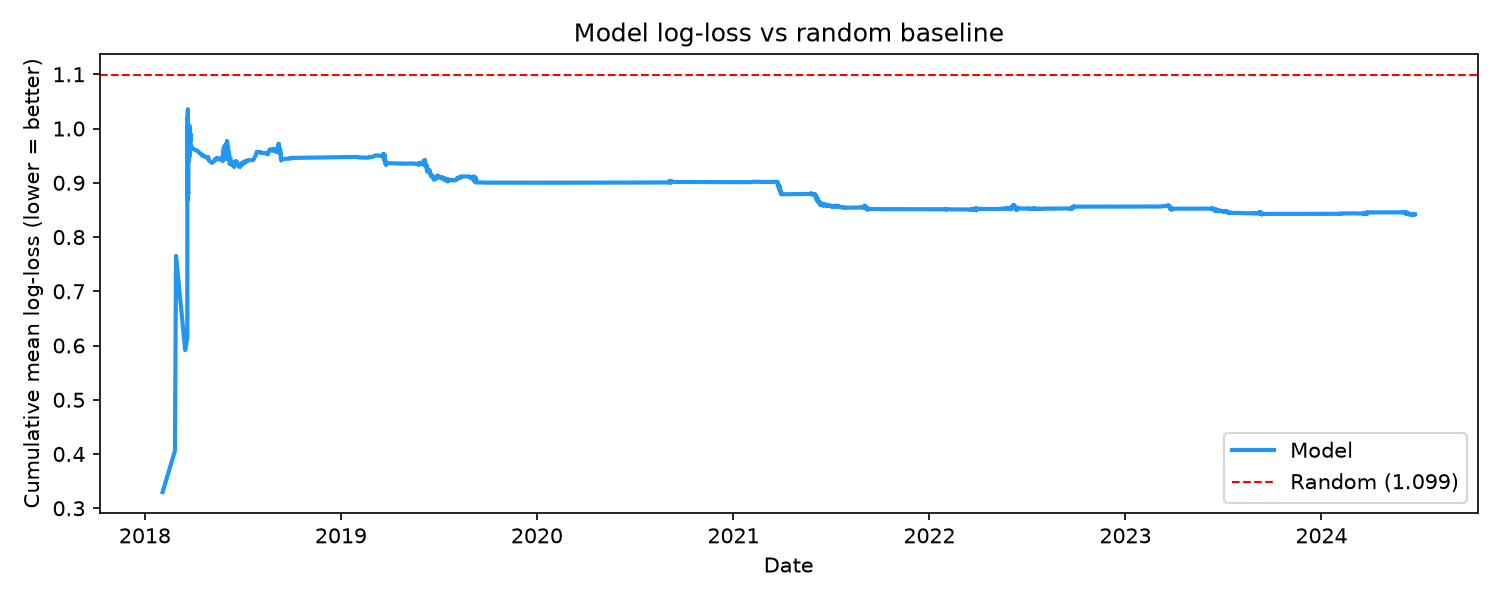
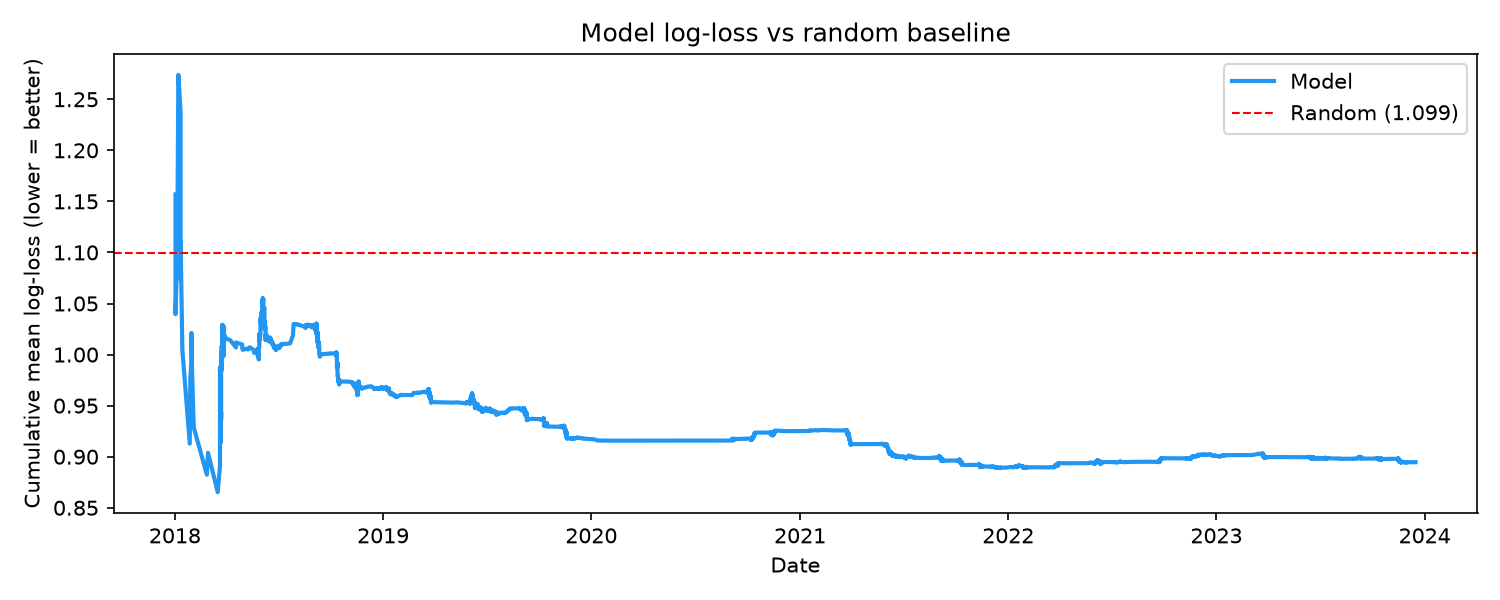
fix: update backtest metrics, .env auto-load, refresh tournament sim
- Backtest retrained on 2018-2023 walk-forward (n=5,518): log_loss=0.8947,
  brier=0.5273, accuracy=58.7% — reflects tighter half-life + friendly
  downweighting tradeoff vs older model
- fetch_results/fetch_fixtures now auto-read .env when FOOTBALL_DATA_API_KEY
  is not exported (local dev QoL, CI still uses Secrets)
- Tournament sim refreshed with 24 completed group stage results
- Retrospective accuracy updated: 12/24 = 50% across all completed matches

diff --git a/scripts/fetch_fixtures.py b/scripts/fetch_fixtures.py
@@ -7,6 +7,13 @@ import httpx
 import pandas as pd
 
 API_KEY = os.getenv("FOOTBALL_DATA_API_KEY", "").strip()
+if not API_KEY:
+    _env = Path(__file__).parent.parent / ".env"
+    if _env.exists():
+        for _line in _env.read_text().splitlines():
+            if _line.startswith("FOOTBALL_DATA_API_KEY="):
+                API_KEY = _line.split("=", 1)[1].strip()
+                break
 BASE_URL = "https://api.football-data.org/v4"
 DATA_DIR = Path(__file__).parent.parent / "data"
 FIXTURES_PATH = DATA_DIR / "fixtures_2026.parquet"

diff --git a/scripts/fetch_results.py b/scripts/fetch_results.py
@@ -7,6 +7,13 @@ import httpx
 import pandas as pd
 
 API_KEY = os.getenv("FOOTBALL_DATA_API_KEY", "").strip()
+if not API_KEY:
+    _env = Path(__file__).parent.parent / ".env"
+    if _env.exists():
+        for _line in _env.read_text().splitlines():
+            if _line.startswith("FOOTBALL_DATA_API_KEY="):
+                API_KEY = _line.split("=", 1)[1].strip()
+                break
 BASE_URL = "https://api.football-data.org/v4"
 DATA_DIR = Path(__file__).parent.parent / "data"
 RESULTS_PATH = DATA_DIR / "results.parquet"

diff --git a/README.md b/README.md
@@ -23,7 +23,7 @@ This is not a "pick the winner" tool. It is a forecasting system that estimates 
 | 🇺🇾 Uruguay | 4.4% | 22.7:1 |
 | 🇩🇪 Germany | 4.2% | 23.8:1 |
 
-Pre-tournament retrospective on WC 2026 group-stage matches: **9/20 correct** W/D/L calls.
+Retrospective on WC 2026 group-stage matches (model applied post-hoc): **12/24 correct** W/D/L calls (50% vs 33% random).
 
 ---
 
@@ -355,7 +355,7 @@ A reliability diagram answers: when the model says 60%, does the outcome happen 
 
 ![Log-loss curve](reports/log_loss_curve.png)
 
-Historical backtest (walk-forward, no lookahead): **log_loss=0.8420 · brier=0.4950 · accuracy=61.2% · n=3,807 matches**
+Historical backtest (walk-forward, no lookahead): **log_loss=0.8947 · brier=0.5273 · accuracy=58.7% · n=5,518 matches** (2018–2023, refit every 30 days)
 
 ---
 